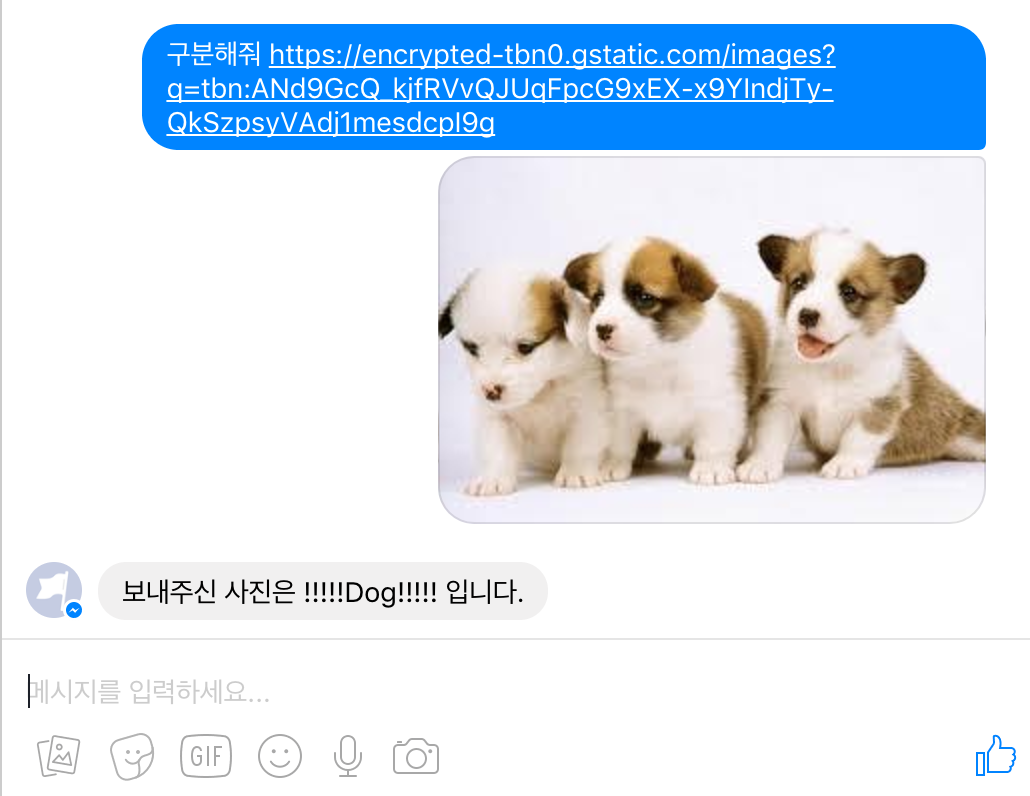
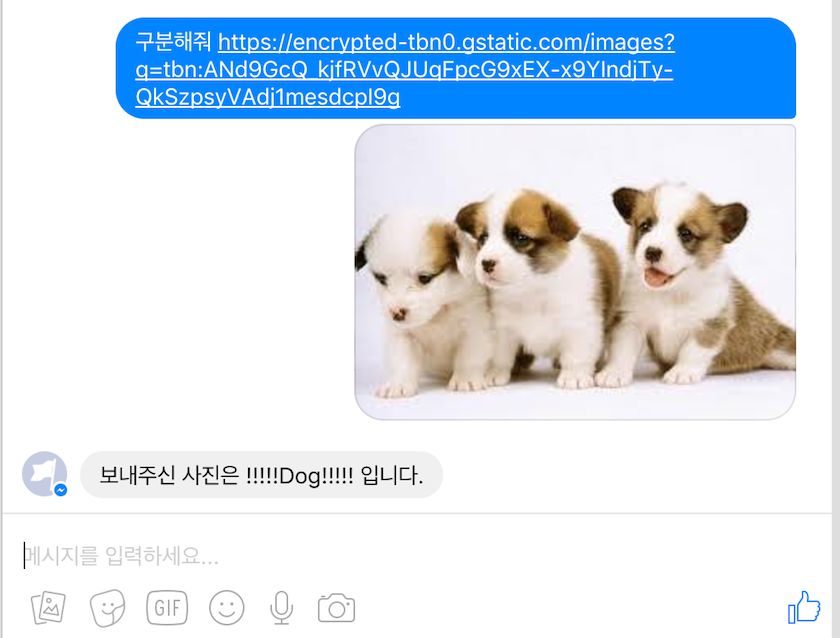
cat_dog_bot

diff --git a/deepLearning/pankyo/catdogbot/README.md b/deepLearning/pankyo/catdogbot/README.md
@@ -3,6 +3,6 @@ Facebook CatDog Bot
 
 #### Demo
 
-![alt text](https://github.com/HiJiGOO/study/blob/master/deepLearning/pankyo/catdogbot/demo1.png)
+![](https://github.com/HiJiGOO/study/blob/master/deepLearning/pankyo/catdogbot/demo1.png =250)
 
 ![alt text](https://github.com/HiJiGOO/study/blob/master/deepLearning/pankyo/catdogbot/demo2.png)

diff --git a/deepLearning/pankyo/coinbot/README.md b/deepLearning/pankyo/coinbot/README.md
@@ -4,4 +4,4 @@ Facebook Coin Bot
 #### https://api.ai
 #### https://apidocs.korbit.co.kr
 
-![alt text](https://github.com/HiJiGOO/study/blob/master/python/coinbot/demo.png)
+![alt text](https://github.com/HiJiGOO/study/blob/master/deepLearning/pankyo/coinbot/demo.png)
